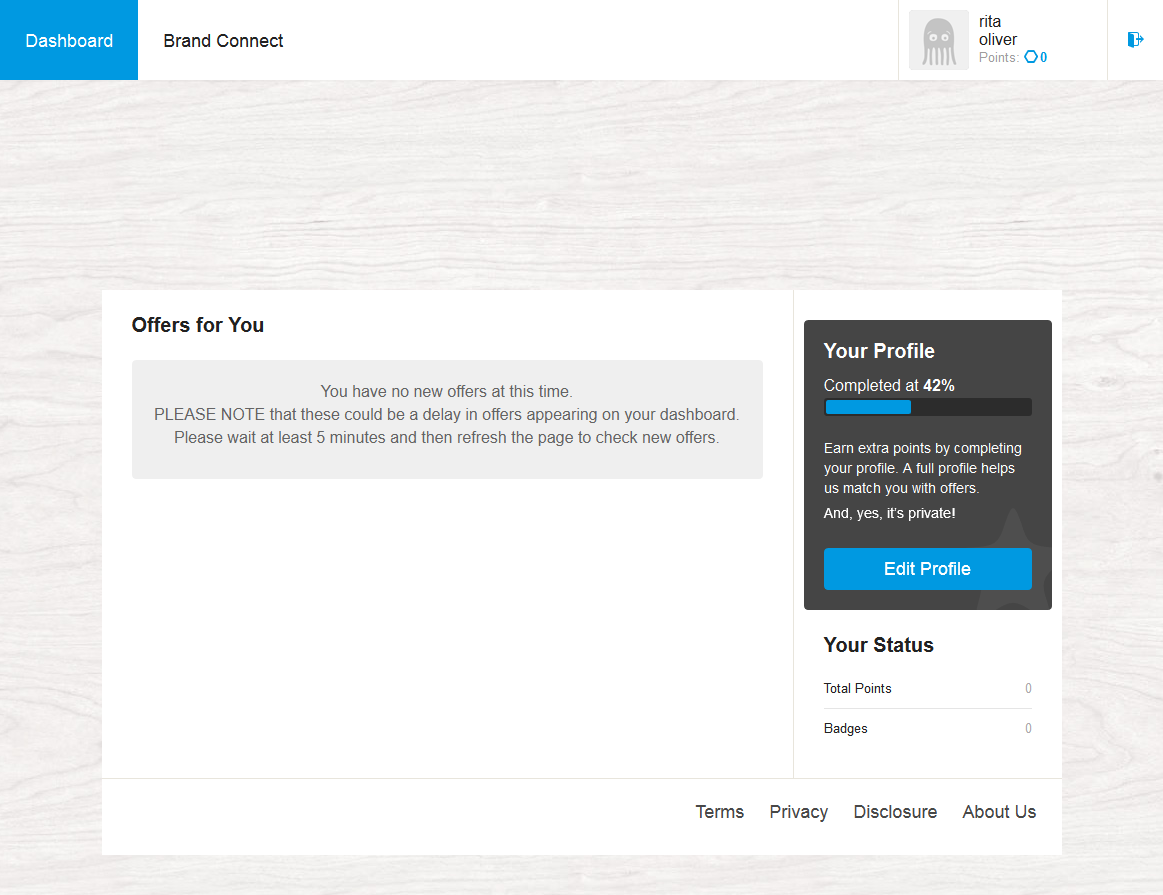
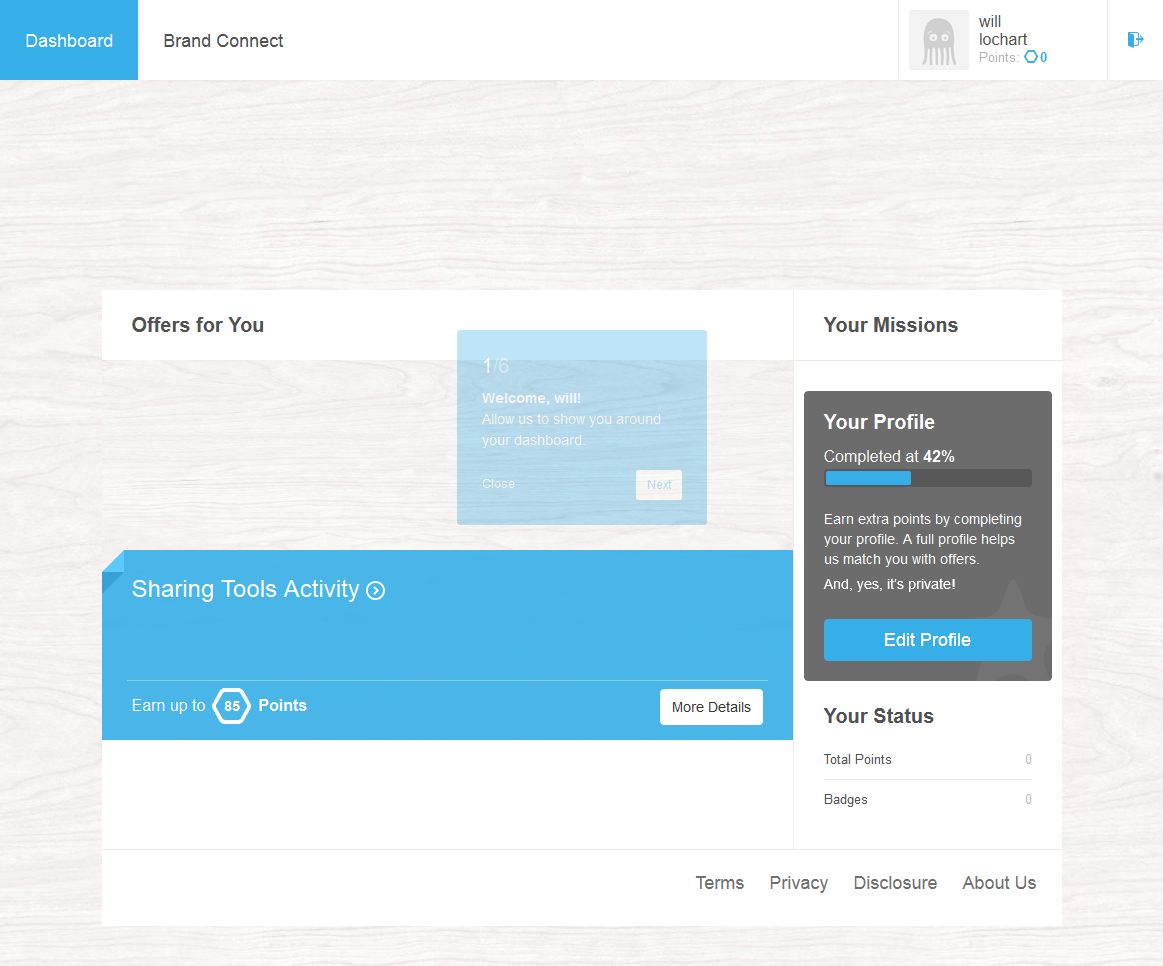
anan

diff --git a/sharingtools_exceptFBuploadRetailReview.rb b/sharingtools_exceptFBuploadRetailReview.rb
@@ -2,9 +2,9 @@ require "json"
 require "selenium-webdriver"
 require "rspec"
 require "yaml"
-
-
 include RSpec::Expectations
+require "win32/clipboard"
+include Win32 
 
 describe "Sharing Tools" do
 
@@ -23,12 +23,12 @@ describe "Sharing Tools" do
   end
   
   it "test_sharing_tools" do
-    #create_activity()
-	#mission_logic()
-	#sleep(180)
+    create_activity()
+	mission_logic()
+	sleep(180)
 	login()
-	#update_shippingaddress()
-	#connect_FbTwIns()
+	update_shippingaddress()
+	connect_FbTwIns()
 	sharing_activity()
 	
   end
@@ -228,9 +228,9 @@ describe "Sharing Tools" do
 	sleep(1)
     @driver.find_element(:css, "div.mlogic-step.ng-scope").click
 	@driver.find_element(:id, "date-start").click
-	@driver.find_element(:xpath, "//td[contains(text(), '4') and @class='day']").click
+	@driver.find_element(:xpath, "//td[contains(text(), '9') and @class='day']").click
 	@driver.find_element(:css, "button.mlogic-add-group").click
-	@driver.find_element(:css, "label.control-checkbox-primary[for='checkbox__586']").click
+	@driver.find_element(:css, "label.control-checkbox-primary[for='checkbox__1210']").click
 	sleep(1)
 	@driver.find_element(:css, "button.test-hub-logic-item-group-save").click
 	sleep(1)
